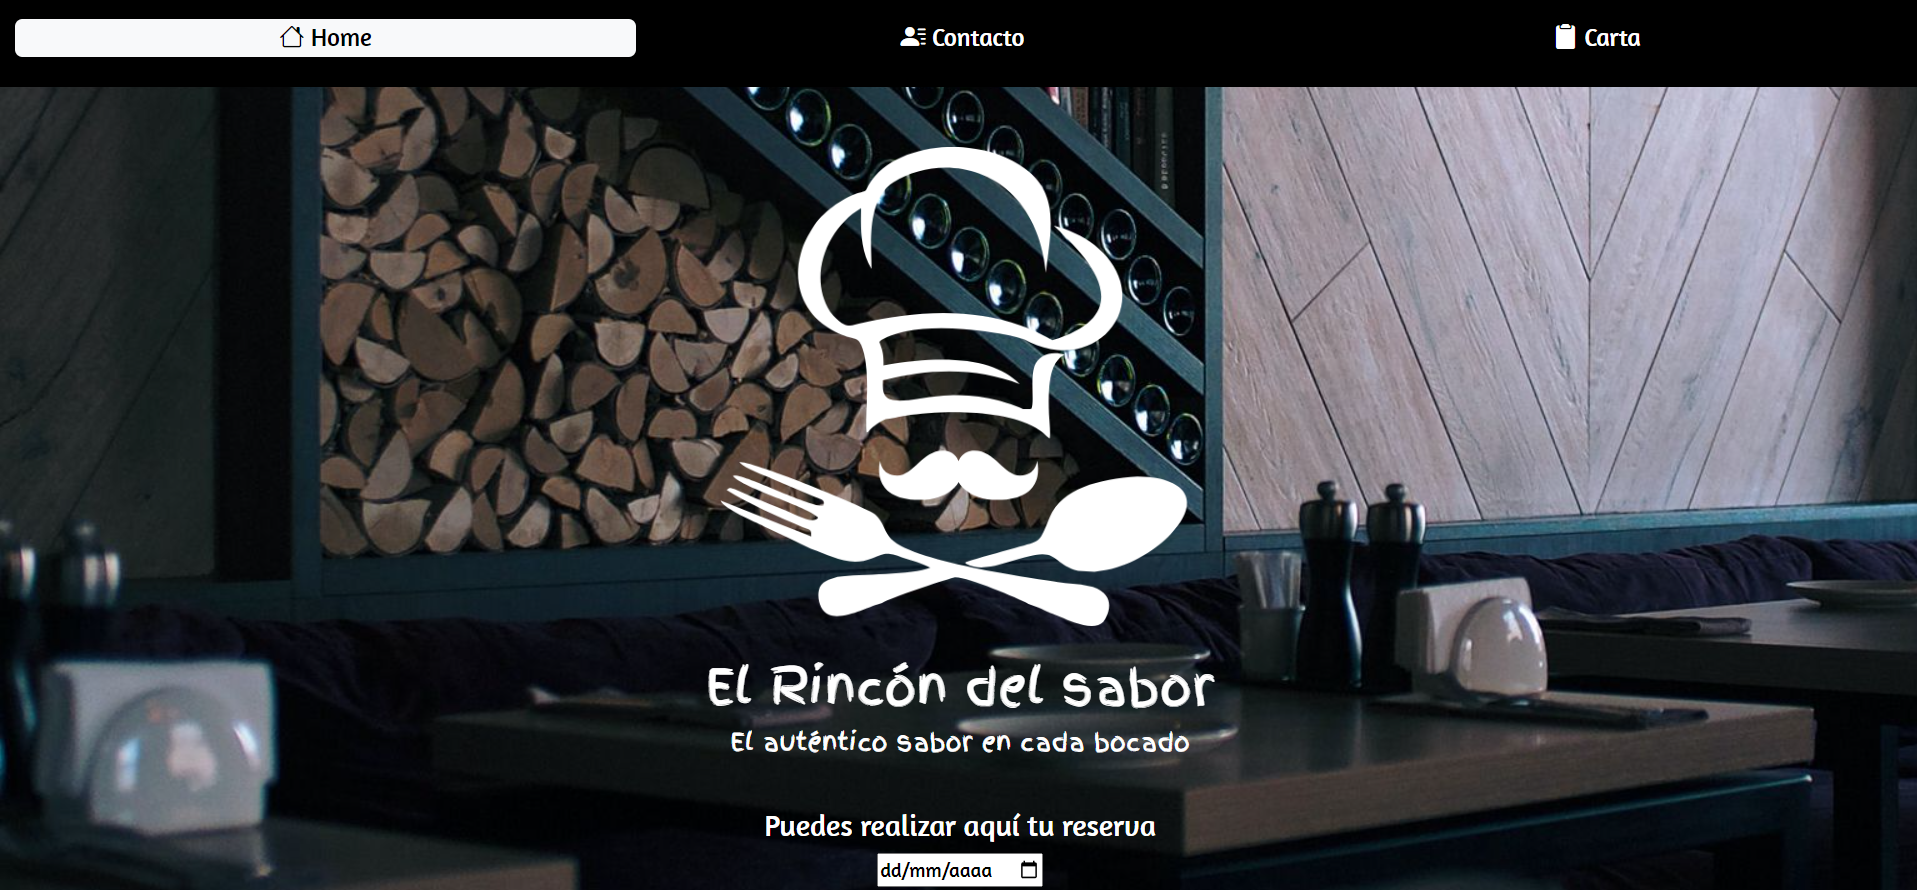
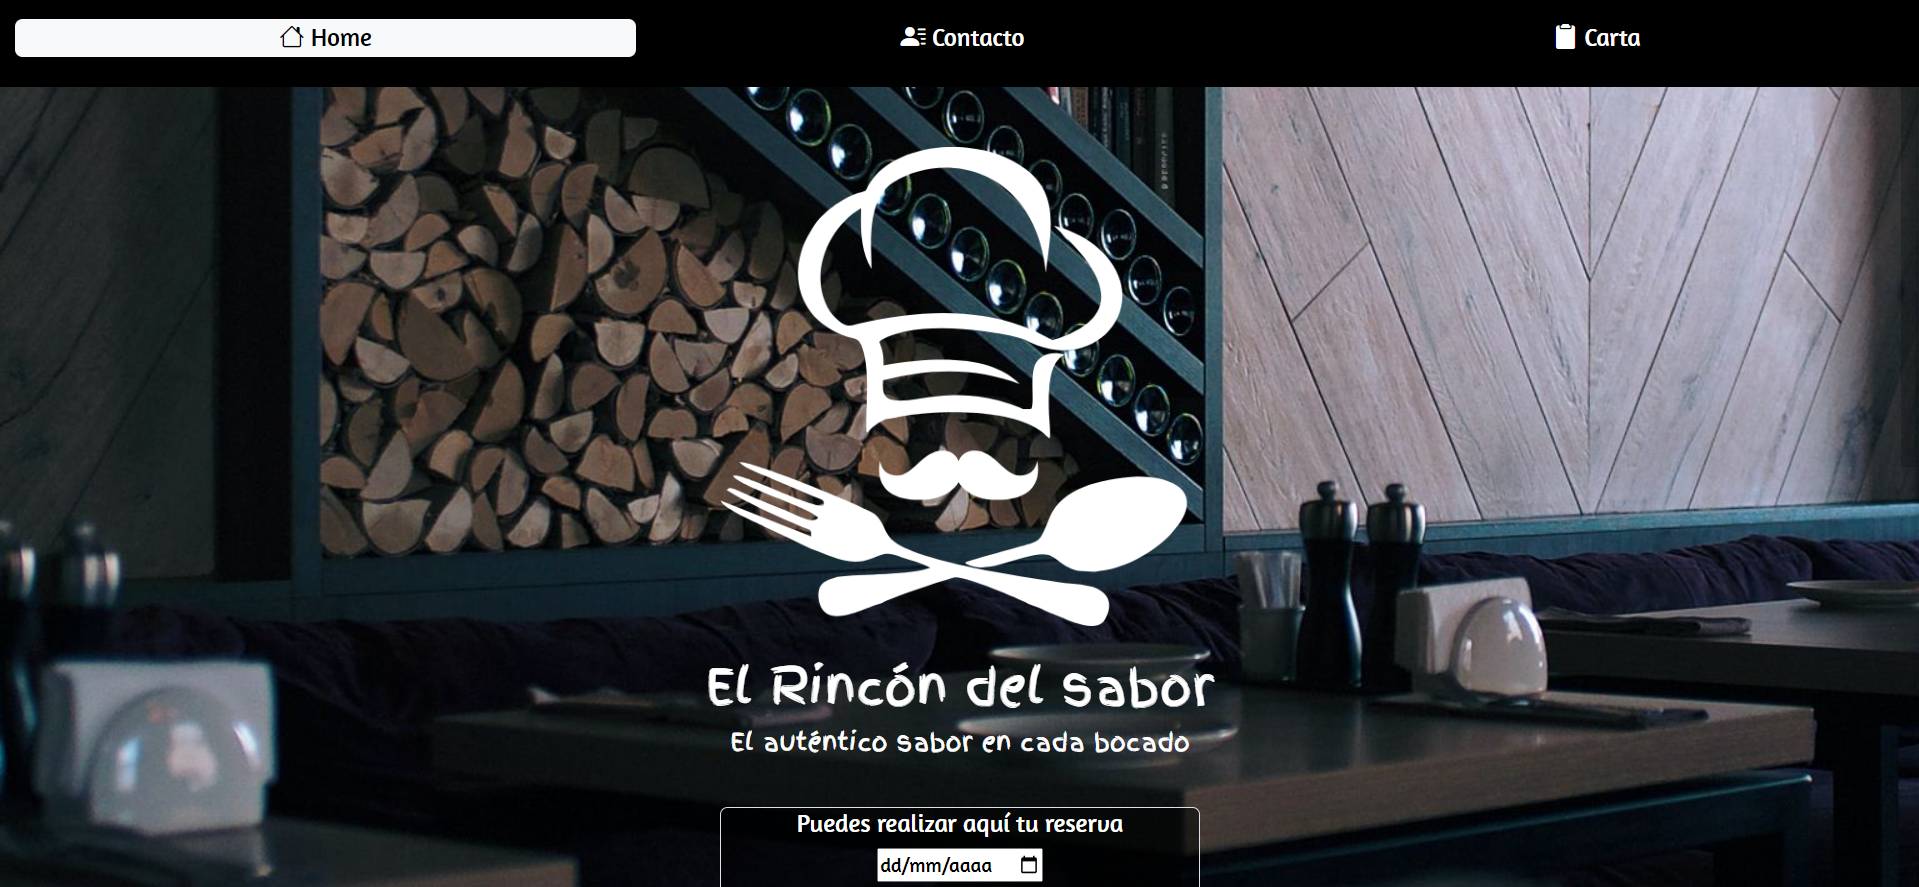
Se incluye footer

diff --git a/index.html b/index.html
@@ -40,14 +40,16 @@
         </div>
         <div class="row">
             <div class="col p-2">
-                <div class="">
-                    <h4>Puedes realizar aquí tu reserva</h4>
-                </div>
-                <div>
-                    <input type="date" id="reservation-date">
-                </div>
-                <div class="mt-3">
-                    <button type="button" class="btn btn-light">Solicitar</button>
+                <div class="col m-auto flex-column transparent rounded d-flex border pb-2 reserveSize">
+                    <div>
+                        <h5>Puedes realizar aquí tu reserva</h5>
+                    </div>
+                    <div>
+                        <input type="date" id="reservation-date">
+                    </div>
+                    <div class="mt-3">
+                        <button type="button" class="btn btn-light">Solicitar</button>
+                    </div>
                 </div>
                 <div class="mt-5">
                     <h4>Ven a visitarnos</h4>
@@ -55,15 +57,37 @@
                 <div class="">
                     <iframe class="mapSize rounded" src="https://www.google.com/maps/embed?pb=!1m18!1m12!1m3!1d3075.6645838716595!2d-0.6302832847958592!3d39.567169979472915!2m3!1f0!2f0!3f0!3m2!1i1024!2i768!4f13.1!3m3!1m2!1s0xd60f677da8336f9%3A0xab0b9b957bf05d89!2sC%2F%20Escriptor%20Enric%20Valor%2C%201%2C%2046191%20Vilamarxant%2C%20Val%C3%A8ncia!5e0!3m2!1ses!2ses!4v1675097056391!5m2!1ses!2ses" width="" height="" style="border:0;" allowfullscreen="" loading="lazy" referrerpolicy="no-referrer-when-downgrade"></iframe>
                 </div>
-                <div class="d-flex flex-column mt-1">
-                <span>C/Escriptor Enric Valor, 1</span>
-                <span>46191 Vilamarxant, Valencia</span>
-                <span><i class="bi bi-telephone"></i> 962710123</span>
-                </div>
             </div> 
         </div>
     </div>
 
+    <footer>
+        <div class="container text-light fs-6 mt-5">
+          <div class="row border-top">
+            <div class="col-12 col-sm-4 d-flex flex-column mt-4 text-center text-lg-start">
+                <span>El Rincón del sabor, SL</span>
+                <span>C/Enric Valor, 1</span>
+                <span> 46191 Vilamarxant, Valencia</span>
+                <span><i class="bi bi-telephone"></i> 962710123</span>
+            </div>
+            <div class="col-12 col-sm-4 d-flex flex-column mt-3 text-center">
+                <h5>Horarios</h5>
+                <span>Lun-Jue: 12:00 - 00:00</span>
+                <span>Vie-Sab: 12:00 - 00:00</span>
+                <span>Dom: 10:00 - 16:00</span>
+            </div>
+            <div class="col-12 col-sm-4 d-flex flex-column mt-3 text-center text-lg-end">
+              <h5>Síguenos</h5>
+              <ul class="list-unstyled">
+                <li><a href="#" class="text-decoration-none"><i class="bi bi-facebook"></i> Facebook</a></li>
+                <li><a href="#" class="text-decoration-none"><i class="bi bi-twitter"></i> Twitter</a></li>
+                <li><a href="#" class="text-decoration-none"><i class="bi bi-instagram"></i> Instagram</a></li>
+              </ul>
+            </div>
+          </div>
+          <p class="text-center border-top p-2">Copyright &copy; proyecto de rgolfe81 para formación en GeeksHubsAcademy</p>
+        </div>
+      </footer>
 
     <!-- Links bootstrap JS -->
 

diff --git a/pages/carta.html b/pages/carta.html
@@ -150,6 +150,34 @@
         </div>
     </section>
 
+    <footer>
+        <div class="container text-light fs-6 mt-5">
+          <div class="row border-top">
+            <div class="col-12 col-sm-4 d-flex flex-column mt-4 text-center text-lg-start">
+                <span>El Rincón del sabor, SL</span>
+                <span>C/Enric Valor, 1</span>
+                <span> 46191 Vilamarxant, Valencia</span>
+                <span><i class="bi bi-telephone"></i> 962710123</span>
+            </div>
+            <div class="col-12 col-sm-4 d-flex flex-column mt-3 text-center">
+                <h5>Horarios</h5>
+                <span>Lun-Jue: 12:00 - 00:00</span>
+                <span>Vie-Sab: 12:00 - 00:00</span>
+                <span>Dom: 10:00 - 16:00</span>
+            </div>
+            <div class="col-12 col-sm-4 d-flex flex-column mt-3 text-center text-lg-end">
+              <h5>Síguenos</h5>
+              <ul class="list-unstyled">
+                <li><a href="#" class="text-decoration-none"><i class="bi bi-facebook"></i> Facebook</a></li>
+                <li><a href="#" class="text-decoration-none"><i class="bi bi-twitter"></i> Twitter</a></li>
+                <li><a href="#" class="text-decoration-none"><i class="bi bi-instagram"></i> Instagram</a></li>
+              </ul>
+            </div>
+          </div>
+          <p class="text-center border-top p-2">Copyright &copy; proyecto de rgolfe81 para formación en GeeksHubsAcademy</p>
+        </div>
+      </footer>
+
     <!-- Links bootstrap JS -->
 
 <script src="https://cdn.jsdelivr.net/npm/bootstrap@5.3.0-alpha1/dist/js/bootstrap.bundle.min.js" integrity="sha384-w76AqPfDkMBDXo30jS1Sgez6pr3x5MlQ1ZAGC+nuZB+EYdgRZgiwxhTBTkF7CXvN" crossorigin="anonymous"></script>

diff --git a/pages/contacto.html b/pages/contacto.html
@@ -75,6 +75,34 @@
         </div>
     </div>
 
+    <footer>
+        <div class="container text-light fs-6 mt-5">
+          <div class="row border-top">
+            <div class="col-12 col-sm-4 d-flex flex-column mt-4 text-center text-lg-start">
+                <span>El Rincón del sabor, SL</span>
+                <span>C/Enric Valor, 1</span>
+                <span> 46191 Vilamarxant, Valencia</span>
+                <span><i class="bi bi-telephone"></i> 962710123</span>
+            </div>
+            <div class="col-12 col-sm-4 d-flex flex-column mt-3 text-center">
+                <h5>Horarios</h5>
+                <span>Lun-Jue: 12:00 - 00:00</span>
+                <span>Vie-Sab: 12:00 - 00:00</span>
+                <span>Dom: 10:00 - 16:00</span>
+            </div>
+            <div class="col-12 col-sm-4 d-flex flex-column mt-3 text-center text-lg-end">
+              <h5>Síguenos</h5>
+              <ul class="list-unstyled">
+                <li><a href="#" class="text-decoration-none"><i class="bi bi-facebook"></i> Facebook</a></li>
+                <li><a href="#" class="text-decoration-none"><i class="bi bi-twitter"></i> Twitter</a></li>
+                <li><a href="#" class="text-decoration-none"><i class="bi bi-instagram"></i> Instagram</a></li>
+              </ul>
+            </div>
+          </div>
+          <p class="text-center border-top p-2">Copyright &copy; proyecto de rgolfe81 para formación en GeeksHubsAcademy</p>
+        </div>
+      </footer>
+
     <!-- Links bootstrap JS -->
 
 <script src="https://cdn.jsdelivr.net/npm/bootstrap@5.3.0-alpha1/dist/js/bootstrap.bundle.min.js" integrity="sha384-w76AqPfDkMBDXo30jS1Sgez6pr3x5MlQ1ZAGC+nuZB+EYdgRZgiwxhTBTkF7CXvN" crossorigin="anonymous"></script>

diff --git a/css/style.css b/css/style.css
@@ -37,4 +37,16 @@ textarea{
         width: 50vw;
         height: 50vh;
     }
+    .reserveSize{
+        width: 50vw;
+    }
+}
+@media (min-width:1500px){
+    .reserveSize{
+        width: 25vw;
+    }
+    .mapSize{
+        width: 35vw;
+        height: 35vh;
+    }
 }

diff --git a/README.md b/README.md
@@ -26,3 +26,5 @@ Estos son los lenguajes utilizados:
 1. La web se compone de una barra de navegación resposive de tres enlaces hipervinculados de las tres secciones indicadas anteriormente.
 2. Se ha utilizado bootstrap como método responsive. En la carta de menú, cambia el número de columnas depende de los diferentes tamaños establecidos en bootstrap para las resoluciones extrasmall 360px, small 540px y large 960px. El tamaño del logo de home y el el formulario de contacto alteran su tamaño mediante una mediaquery a los 768px.
 3. Se han utilizado algunos estilos de hover, como transform y transition para hacer más agradable la navegación
+4. Se utiliza el iframe de googleMaps para visualizar la geolocalización del establecimiento.
+5. Se utiliza un datepicker para simular una reserva.
